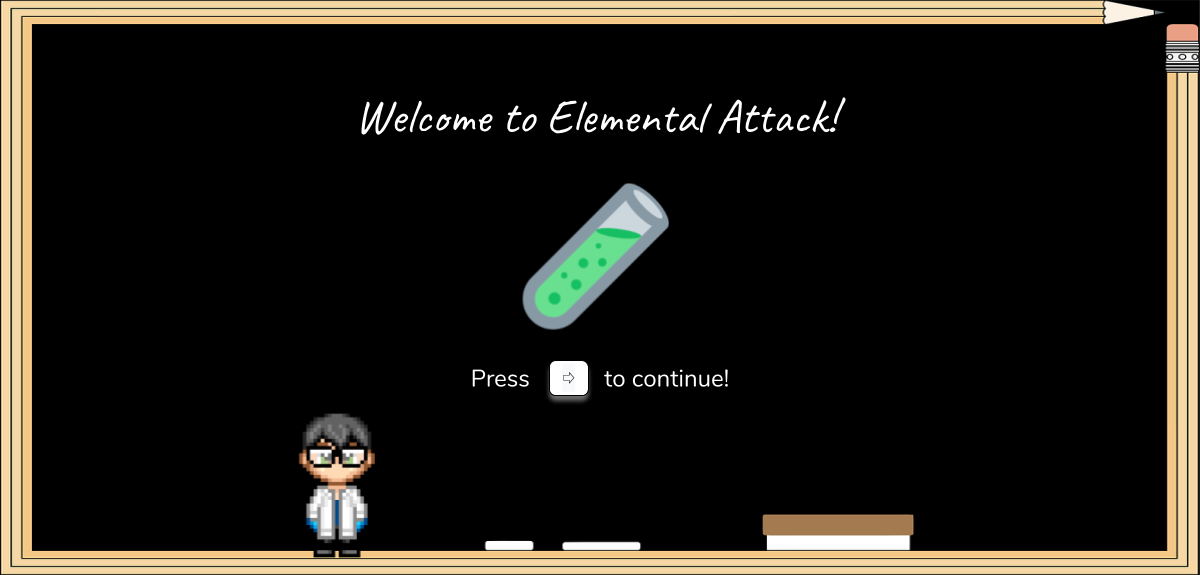
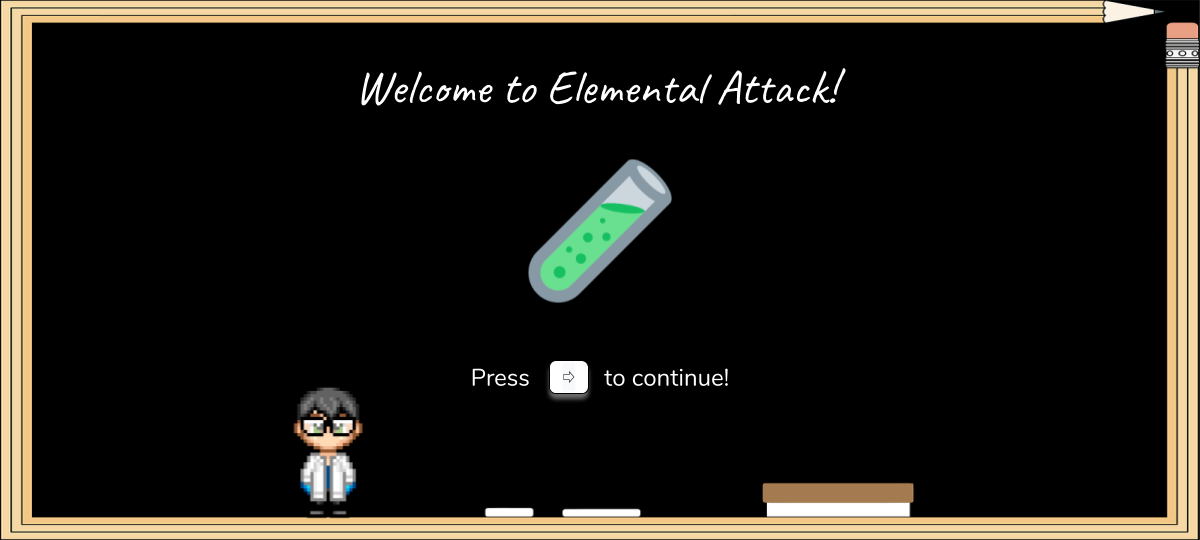
Add flashing message to start or resume game

diff --git a/src/scripts/slideshow.js b/src/scripts/slideshow.js
@@ -13,7 +13,10 @@ export default class Slideshow {
     this.instructions.src = "/src/assets/images/aboutSlideshow/elementalAttackDiagram.png";
 
     this.slideNumber = 1;
-    this.allowGameStart = false;
+    this.controlSeen = false;
+    this.gameStarted = false;
+    this.gameMessageActive = false;
+    this.gameMessageInterval = undefined;
 
     this.clearCanvas = this.clearCanvas.bind(this);
     this.drawIntro = this.drawIntro.bind(this);
@@ -24,6 +27,7 @@ export default class Slideshow {
     this.drawNavBarTwo = this.drawNavBarTwo.bind(this);
     this.drawNavBarThree = this.drawNavBarThree.bind(this);
     this.drawSlide = this.drawSlide.bind(this);
+    this.drawGameMessage = this.drawGameMessage.bind(this);
     this.advanceSlide = this.advanceSlide.bind(this);
     this.backwardSlide = this.backwardSlide.bind(this);
     this.setSlide = this.setSlide.bind(this);
@@ -43,10 +47,11 @@ export default class Slideshow {
 
   drawInstructions() {
     this.ctx.drawImage(this.instructions, 0, 0);
-    if (this.allowGameStart === false) {
-      this.allowGameStart = true;
-      console.log(`Game can be started: ${this.allowGameStart}`);
+    if (this.controlSeen === false) {
+      this.controlSeen = true;
+      console.log(`Game can be started: ${this.controlSeen}`);
     }
+    this.gameMessageInterval = window.setInterval(this.drawGameMessage, 1000);
   }
 
   drawSlide() {
@@ -69,7 +74,7 @@ export default class Slideshow {
 
   drawNavbar() {
     this.ctx.beginPath();
-      this.ctx.rect(0, 520, 1200, 30);
+      this.ctx.rect(0, 540, 1200, 10);
       this.ctx.fillStyle = "black";
     this.ctx.fill();
 
@@ -93,39 +98,69 @@ export default class Slideshow {
 
   drawNavBarOne() {
     this.ctx.beginPath();
-      this.ctx.moveTo(0, 520);
-      this.ctx.lineTo(400, 520);
-      this.ctx.lineTo(425, 535);
+      this.ctx.moveTo(0, 540);
+      this.ctx.lineTo(400, 540);
+      this.ctx.lineTo(425, 545);
       this.ctx.lineTo(400, 550);
       this.ctx.lineTo(0, 550);
-      this.ctx.lineTo(0, 520);
+      this.ctx.lineTo(0, 540);
       this.ctx.fillStyle = "#e60909";
     this.ctx.fill();
   }
 
   drawNavBarTwo() {
     this.ctx.beginPath();
-      this.ctx.moveTo(400, 520);
-      this.ctx.lineTo(800, 520);
-      this.ctx.lineTo(825, 535);
+      this.ctx.moveTo(400, 540);
+      this.ctx.lineTo(800, 540);
+      this.ctx.lineTo(825, 545);
       this.ctx.lineTo(800, 550);
       this.ctx.lineTo(400, 550);
-      this.ctx.lineTo(425, 535);
-      this.ctx.lineTo(400, 520);
+      this.ctx.lineTo(425, 545);
+      this.ctx.lineTo(400, 540);
       this.ctx.fillStyle = "#e6e609";
     this.ctx.fill();
   }
 
   drawNavBarThree() {
     this.ctx.beginPath();
-      this.ctx.moveTo(800, 520);
-      this.ctx.lineTo(1200, 520);
+      this.ctx.moveTo(800, 540);
+      this.ctx.lineTo(1200, 540);
       this.ctx.lineTo(1200, 550);
       this.ctx.lineTo(800, 550);
-      this.ctx.lineTo(825, 535);      
-      this.ctx.lineTo(800, 520);      
+      this.ctx.lineTo(825, 545);      
+      this.ctx.lineTo(800, 540);      
       this.ctx.fillStyle = "#26e609";
     this.ctx.fill();
+  }
+
+  drawGameMessage() {
+    this.ctx.clearRect(50, 475, 300, 35);
+    this.ctx.beginPath();
+      this.ctx.rect(50, 475, 300, 35);
+      this.ctx.fillStyle = "black";
+    this.ctx.fill();
+
+    if (this.gameMessageActive) {
+      if (this.gameStarted) {
+        this.ctx.beginPath();
+          this.ctx.font = 'bold 30px "Nunito"';
+          this.ctx.fillStyle = "#e3bc52";
+          this.ctx.textAlign = "left";
+        this.ctx.fillText('Press P to resume', 50, 500);
+        this.gameMessageActive = false;
+      }
+      else {
+        this.ctx.beginPath();
+          this.ctx.font = 'bold 30px "Nunito"';
+          this.ctx.fillStyle = "#e3bc52";
+          this.ctx.textAlign = "left";
+        this.ctx.fillText('Press SPACE to begin', 50, 500);
+        this.gameMessageActive = false;
+      }
+    }
+    else {
+      this.gameMessageActive = true;
+    }
   }
 
   advanceSlide() {

diff --git a/index.html b/index.html
@@ -5,11 +5,12 @@
     <meta charset="UTF-8">
     <meta name="viewport" content="width=device-width, initial-scale=1.0">
     <meta http-equiv="X-UA-Compatible" content="ie=edge">
-    <link rel="stylesheet" href="./dist/main.css">
     <link rel="apple-touch-icon" sizes="180x180" href="./src/assets/images/favicon/apple-touch-icon.png">
     <link rel="icon" type="image/png" sizes="32x32" href="./src/assets/images/favicon/favicon-32x32.png">
     <link rel="icon" type="image/png" sizes="16x16" href="./src/assets/images/favicon/favicon-16x16.png">
     <link rel="manifest" href="./src/assets/images/favicon/site.webmanifest">
+    <link href="https://fonts.googleapis.com/css?family=Nunito&display=swap" rel="stylesheet">
+    <link rel="stylesheet" href="./dist/main.css">
     <script src="https://kit.fontawesome.com/84e7412565.js" crossorigin="anonymous"></script>
     <script type="text/javascript" src="./dist/main.js"></script>
     <title>Elemental Attack</title>

diff --git a/src/scripts/game.js b/src/scripts/game.js
@@ -50,6 +50,7 @@ export default class Game {
     else {
       window.setInterval(this.buildAtomArmy, 2000);
       window.setInterval(this.restoreAmmo, 5000);
+      window.clearInterval(this.slideshow.gameMessageInterval);
       this.renderGame();
     }
   }
@@ -58,6 +59,7 @@ export default class Game {
     this.control.removeKeyDownOutsideGameListener();
     this.control.addKeyDownInGameListener();
     this.control.addKeyUpInGameListener();
+    this.slideshow.gameStarted = true;
     this.togglePause();
   }
 
@@ -66,6 +68,7 @@ export default class Game {
     console.log('Game over');
     this.control.removeKeyDownInGameListener();
     this.control.removeKeyUpInGameListener();
+    this.slideshow.gameStarted = false;
     this.renderGameOver();
   }
   

diff --git a/src/scripts/control.js b/src/scripts/control.js
@@ -46,7 +46,7 @@ export default class Control {
         this.game.slideshow.advanceSlide();
         break;
       case ' ':
-        if (this.game.slideshow.allowGameStart) {
+        if (this.game.slideshow.controlSeen) {
           this.game.newGame();
         }
         break;
